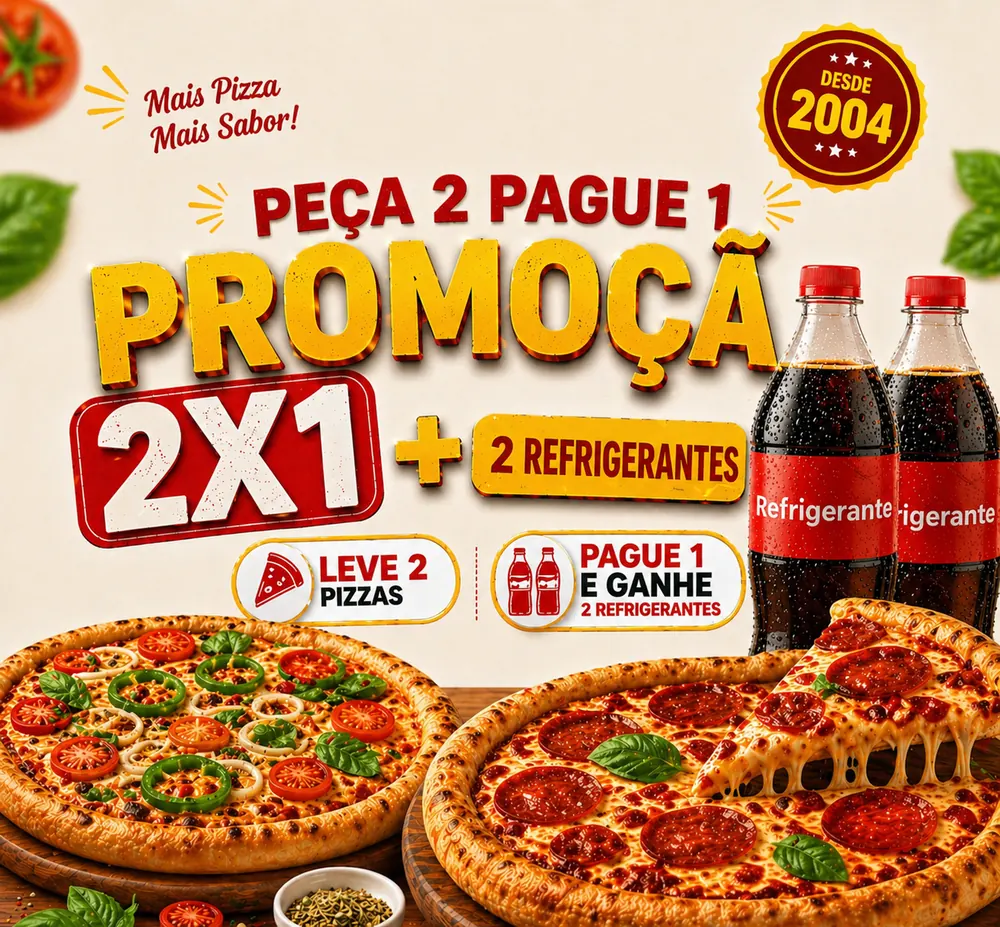
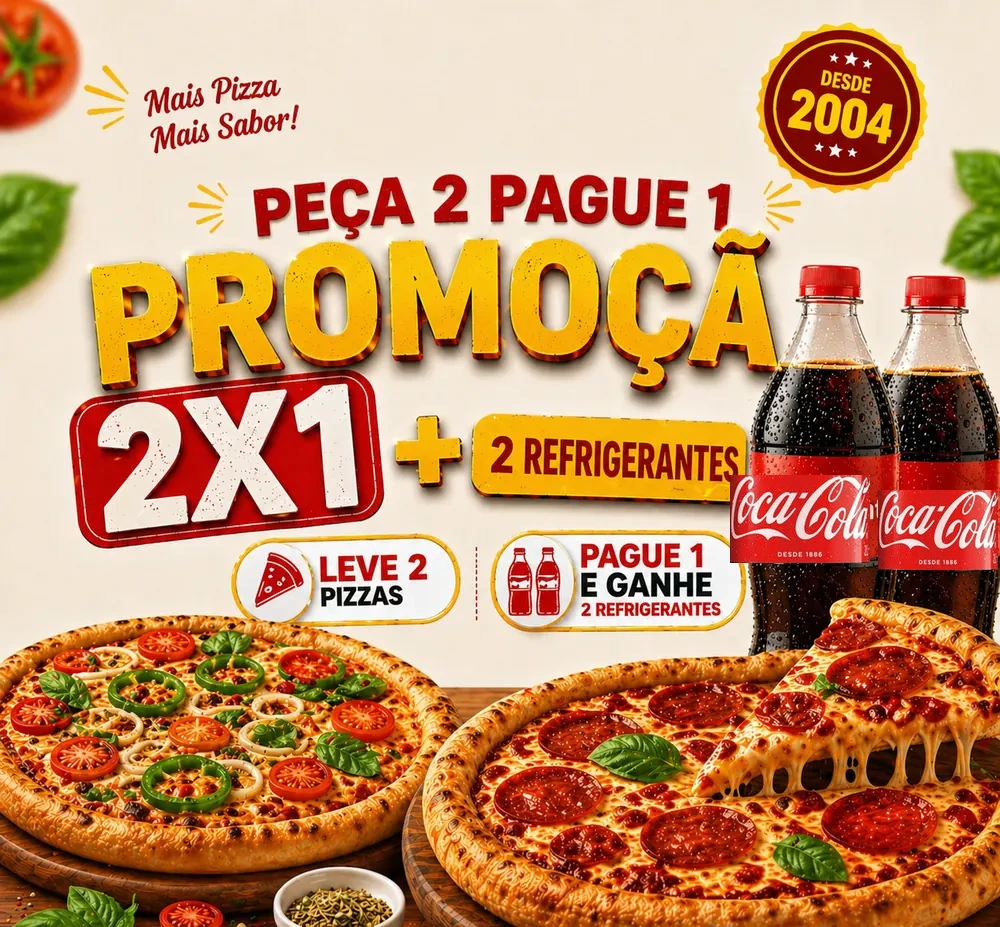
feat: ajustar prazo de entrega para 20 a 45 min, enquadramento do hero e fotos reais de bebidas e combos

Changed region(s): [[0.713, 0.5135, 1.0, 0.6343]]

diff --git a/src/data/menu.js b/src/data/menu.js
@@ -25,7 +25,7 @@ export const SUPER_COMBOS = [
     name: '02 Pizzas M + 1 Refrigerante 2 Litros',
     description: 'ESCOLHA OS SABORES',
     price: 55.90,
-    image: '/images/pizzafoto.webp',
+    image: '/images/combo-2pizzas-refri2l.webp',
     category: 'super-combos'
   },
   {
@@ -33,7 +33,7 @@ export const SUPER_COMBOS = [
     name: '02 Pizzas G + 1 Refrigerante 2 Litros',
     description: 'ESCOLHA OS SABORES',
     price: 64.90,
-    image: '/images/pizzafoto.webp',
+    image: '/images/combo-2pizzas-refri2l.webp',
     category: 'super-combos',
     badge: 'Mais Pedido',
     serves: 'Serve 3 a 4 pessoas',
@@ -46,7 +46,7 @@ export const SUPER_COMBOS = [
     price: 73.80,
     badge: 'Combo Família',
     serves: 'Serve 4 a 6 pessoas',
-    image: '/images/pizzafoto.webp',
+    image: '/images/combo-2pizzas-2refris.webp',
     category: 'super-combos',
   },
   {
@@ -56,7 +56,7 @@ export const SUPER_COMBOS = [
     price: 99.80,
     badge: 'Super Galera',
     serves: 'Serve 6 a 8 pessoas',
-    image: '/images/plano3.webp',
+    image: '/images/combo-3pizzas-2refris.webp',
     category: 'super-combos',
   }
 ];
@@ -83,7 +83,7 @@ export const COMBOS_ESPECIAIS = [
     name: '01 Pizza Média Marguerita + 01 Refri 1L',
     description: 'Escolha o refrigerante de 1 litro ao abrir',
     price: 49.90,
-    image: 'https://images.unsplash.com/photo-1565299624946-b28f40a0ae38?auto=format&fit=crop&w=300&q=80',
+    image: '/images/combo-marguerita.webp',
     category: 'combos-especiais'
   },
   {

diff --git a/src/components/HeroStoreCard.jsx b/src/components/HeroStoreCard.jsx
@@ -36,14 +36,14 @@ export default function HeroStoreCard() {
     <section className="w-full pt-3 pb-2">
       <div className="max-w-6xl mx-auto px-4">
         {/* Banner Fotográfico Amplo Estilo YOR */}
-        <div className="relative rounded-2xl sm:rounded-3xl overflow-hidden h-44 sm:h-64 md:h-72 shadow-sm bg-neutral-900">
+        <div className="relative rounded-2xl sm:rounded-3xl overflow-hidden h-60 sm:h-72 md:h-84 lg:h-[400px] shadow-sm bg-neutral-900">
           <img
             src="/images/pizzafoto.webp"
             alt="Pizza Artesanal Donatello saindo do forno"
-            className="w-full h-full object-cover object-center brightness-90 contrast-105"
+            className="w-full h-full object-cover object-[center_20%] sm:object-[center_22%] md:object-[center_25%] brightness-95 contrast-105"
             loading="eager"
           />
-          <div className="absolute inset-0 bg-gradient-to-t from-black/60 via-transparent to-black/20 pointer-events-none" />
+          <div className="absolute inset-0 bg-gradient-to-t from-black/50 via-transparent to-black/15 pointer-events-none" />
         </div>
 
         {/* Card Branco Sobreposto ao Hero (Igual à YOR) */}

diff --git a/src/components/CatalogSection.jsx b/src/components/CatalogSection.jsx
@@ -273,11 +273,13 @@ function ProductCard({ item, onAdd, isAdded }) {
       </div>
 
       {/* Lado Direito: Imagem com Botão Vermelho Redondo '+' no Canto */}
-      <div className="relative w-24 h-24 sm:w-28 sm:h-28 rounded-xl overflow-hidden bg-stone-50 shrink-0 border border-gray-100">
+      <div className="relative w-24 h-24 sm:w-28 sm:h-28 rounded-xl overflow-hidden bg-white shrink-0 border border-gray-100 flex items-center justify-center">
         <img
           src={item.image}
           alt={item.name}
-          className="w-full h-full object-cover group-hover:scale-105 transition duration-300"
+          className={`w-full h-full group-hover:scale-105 transition duration-300 ${
+            item.category === 'bebidas' ? 'object-contain p-1.5' : 'object-cover'
+          }`}
           loading="lazy"
           decoding="async"
         />

diff --git a/src/components/CartDrawer.jsx b/src/components/CartDrawer.jsx
@@ -70,7 +70,9 @@ export default function CartDrawer() {
                   <img
                     src={item.image}
                     alt={item.name}
-                    className="w-16 h-16 rounded-lg object-cover bg-gray-50 shrink-0"
+                    className={`w-16 h-16 rounded-lg bg-white border border-gray-100 shrink-0 ${
+                      item.category === 'bebidas' ? 'object-contain p-1' : 'object-cover'
+                    }`}
                   />
                 )}
 

diff --git a/src/components/PixScreen.jsx b/src/components/PixScreen.jsx
@@ -442,7 +442,7 @@ export default function PixScreen() {
                 <Clock className="w-3.5 h-3.5 text-emerald-600" />
                 <span>Tempo estimado de entrega:</span>
               </span>
-              <span className="font-extrabold text-emerald-900">35 a 50 minutos após confirmação</span>
+              <span className="font-extrabold text-emerald-900">20 a 45 min após confirmação</span>
             </div>
           </div>
 

diff --git a/src/config/site.js b/src/config/site.js
@@ -6,7 +6,7 @@
 export const siteConfig = {
   name: 'Donatello Pizzaria Artesanal',
   tagline: 'A verdadeira pizza na sua casa.',
-  deliveryTime: 'até 30 min',
+  deliveryTime: '20 a 45 min',
   
   // Telefone centralizado configurável por variável de ambiente (sem fake hardcoded)
   phone: (typeof import.meta !== 'undefined' && import.meta.env?.VITE_CONTACT_PHONE) || '',

diff --git a/src/components/PromoHighlights.jsx b/src/components/PromoHighlights.jsx
@@ -14,7 +14,7 @@ export default function PromoHighlights() {
     description: '2 Pizzas Grandes (8 fatias cada) + Refri 2L • Escolha os sabores',
     price: 64.90,
     originalPrice: 89.90,
-    image: '/images/pizzafoto.webp',
+    image: '/images/combo-2pizzas-refri2l.webp',
     category: 'super-combos',
     badge: 'MAIS PEDIDO',
   };
